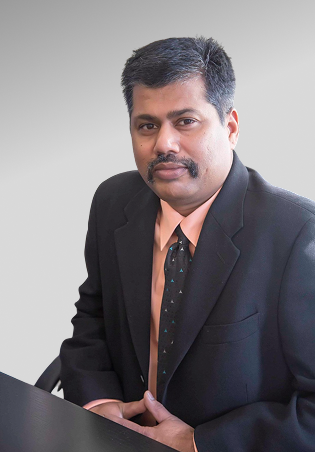
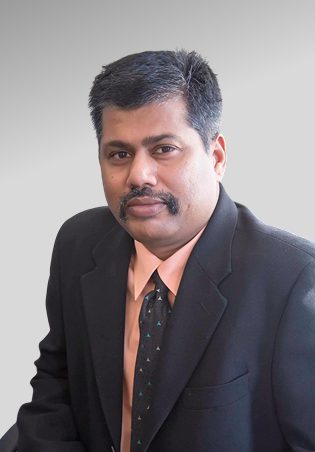
updated 4

diff --git a/src/pages/about.tsx b/src/pages/about.tsx
@@ -46,6 +46,9 @@ const About: React.FC = () => {
   ];
 
   const visibleContent = showMore ? content : content.slice(0, 4);
+  const head = 'rgb(219 39 119)';
+  const pargraph = '#C2185B';
+
 
   const leaders: Leader[] = [
     {
@@ -94,7 +97,7 @@ const About: React.FC = () => {
     },
     {
       id: 4,
-      name: "Prof Mr. A.Md.Abdulkadhar",
+      name: "Prof Mr.A.Md.Abdulkadhar",
       title: "Educational Advisor",
       image: "/assets/images/sub4.png",
       bio: "Professor A. Mohamed Abdul Kadhar is an educationist committed to women's advancement. He has written extensively on women achievers and serves as a consultant for educational institutions. Currently, he supports the We Can Voice for Women Foundation, empowering women's initiatives.",
@@ -214,7 +217,7 @@ const About: React.FC = () => {
 
             {/* Second Image */}
             <img
-              src="/assets/images/IMG_20190116_074215.jpg"
+              src="/assets/images/2540d9abd673d7579cfbe93b02f0fa44376fa8bb.jpg"
               alt="About 2"
               className="w-full object-cover rounded-2xl shadow-md"
               style={{ height: '340px' }}
@@ -223,10 +226,11 @@ const About: React.FC = () => {
             {/* Third Image */}
             {/* <div className="relative w-full flex justify-center md:justify-start"> */}
             <img
-              src="/assets/images/2540d9abd673d7579cfbe93b02f0fa44376fa8bb.jpg"
+              src="/assets/images/IMG_20190116_074215.jpg"
               alt="About 3"
               className="object-cover rounded-2xl shadow-md bg-white border"
               style={{
+                padding:'8px',
                 width: '100%',
                 maxWidth: '360px',
                 height: '240px',
@@ -296,14 +300,13 @@ const About: React.FC = () => {
                             }}
                           >
                             <div className="flex-1 bg-opacity-80 p-3 rounded-lg text-center overflow-hidden">
-                              <h3 className="text-lg font-bold text-black">{leader.name}</h3>
-                              <p className="text-sm text-black font-bold mb-2">{leader.title}</p>
+                              <h3 className="text-lg font-bold text-black" style={{ color: head }}>{leader.name}</h3>
+                              <p className="text-sm text-black font-bold mb-2"style={{ color: head }}>{leader.title}</p>
 
-                              <div className="text-pink-600 font-bold text-left text-sm overflow-hidden">
+                              <div className=" font-bold text-left text-sm overflow-hidden"style={{color:pargraph}}>
                                 <p>{leader.bio}</p>
                               </div>
                             </div>
-
                             {/* Social Icon */}
                             <div className="absolute bottom-4 right-4">
                               {leader.social?.linkedin && (

diff --git a/src/pages/Project.tsx b/src/pages/Project.tsx
@@ -1,0 +1,58 @@
+'use client';
+
+import React from 'react';
+
+const projects = [
+  {
+    id: 1,
+    name: 'Scholarship for Enlightenment',
+    description: 'Empowering young girls through educational support programs in rural Tamil Nadu.',
+    image: '/assets/images/project-1.jpg',
+  },
+  {
+    id: 2,
+    name: 'Menstrual Hygiene Awareness',
+    description: 'Workshops and distribution of menstrual cups to promote hygiene and sustainability.',
+    image: '/assets/images/project-2.jpg',
+  },
+  {
+    id: 3,
+    name: 'Women in Governance',
+    description: 'Training sessions encouraging women to participate in local decision-making bodies.',
+    image: '/assets/images/project-3.jpg',
+  },
+];
+
+export default function ProjectPage() {
+  return (
+    <section className="py-12 md:py-16 px-4 bg-pink-50">
+      <div className="max-w-7xl mx-auto">
+        <h2 className="text-4xl font-bold text-pink-700 mb-10 text-center underline underline-offset-4">
+          Our Projects
+        </h2>
+
+        {/* <div className="flex flex-wrap justify-center gap-10 max-w-6xl mx-auto">
+          {projects.map((project) => (
+            <div
+              key={project.id}
+              className="flex flex-col items-center text-center p-6 bg-white rounded-2xl transition-shadow duration-300 w-full sm:w-[45%] lg:w-[30%] max-w-[320px] min-h-[420px]"
+              style={{
+                boxShadow: '6px 6px 16px rgba(0, 0, 0, 0.15)', // right and bottom shadow only
+              }}
+            >
+              <div className="w-full aspect-square mb-4 overflow-hidden rounded-lg">
+                <img
+                  src={project.image}
+                  alt={project.name}
+                  className="w-full h-full object-cover"
+                />
+              </div>
+              <h3 className="text-xl font-semibold text-pink-700 mb-2">{project.name}</h3>
+              <p className="text-gray-600 text-sm">{project.description}</p>
+            </div>
+          ))}
+        </div> */}
+      </div>
+    </section>
+  );
+}

diff --git a/src/App.tsx b/src/App.tsx
@@ -34,6 +34,7 @@ const About = lazy(() => import('@/pages/about'));
 const Blogs = lazy(() => import('@/pages/blogs'));
 const Media = lazy(() => import('@/pages/media'));
 const Events = lazy(() => import('@/pages/events'));
+const Project = lazy(() => import('@/pages/Project'));
 const GetInvolved = lazy(() => import('@/pages/getinvolved'));
 const Contact = lazy(() => import('@/pages/contact'));
 const PrivacyPolicy = lazy(() => import('@/pages/privacy-policy'));
@@ -105,6 +106,7 @@ const App = () => {
                   <Route path="Events" element={<Events />} />
                   <Route path="Media" element={<Media />} />
                   <Route path="GetInvolved" element={<GetInvolved />} />
+                  <Route path="Project" element={<Project />} />
                   <Route path="Contact" element={<Contact />} />
                   <Route path="PrivacyPolicy" element={<PrivacyPolicy />} />
                   <Route path="RefundPolicy" element={<RefundPolicy />} />

diff --git a/src/components/Navigation.tsx b/src/components/Navigation.tsx
@@ -13,7 +13,7 @@ const Navigation = () => {
     { name: 'Home', href: '/' },
     { name: 'About', href: '/About' },
     { name: 'Media', href: '/Media' },
-    { name: 'Project', href: '#' },
+    { name: 'Project', href: '/Project' },
     { name: 'Get Involved', href: '/GetInvolved' },
     { name: 'Contact Us', href: '/Contact' },
     // { name: 'Login', href: '/Login' },
